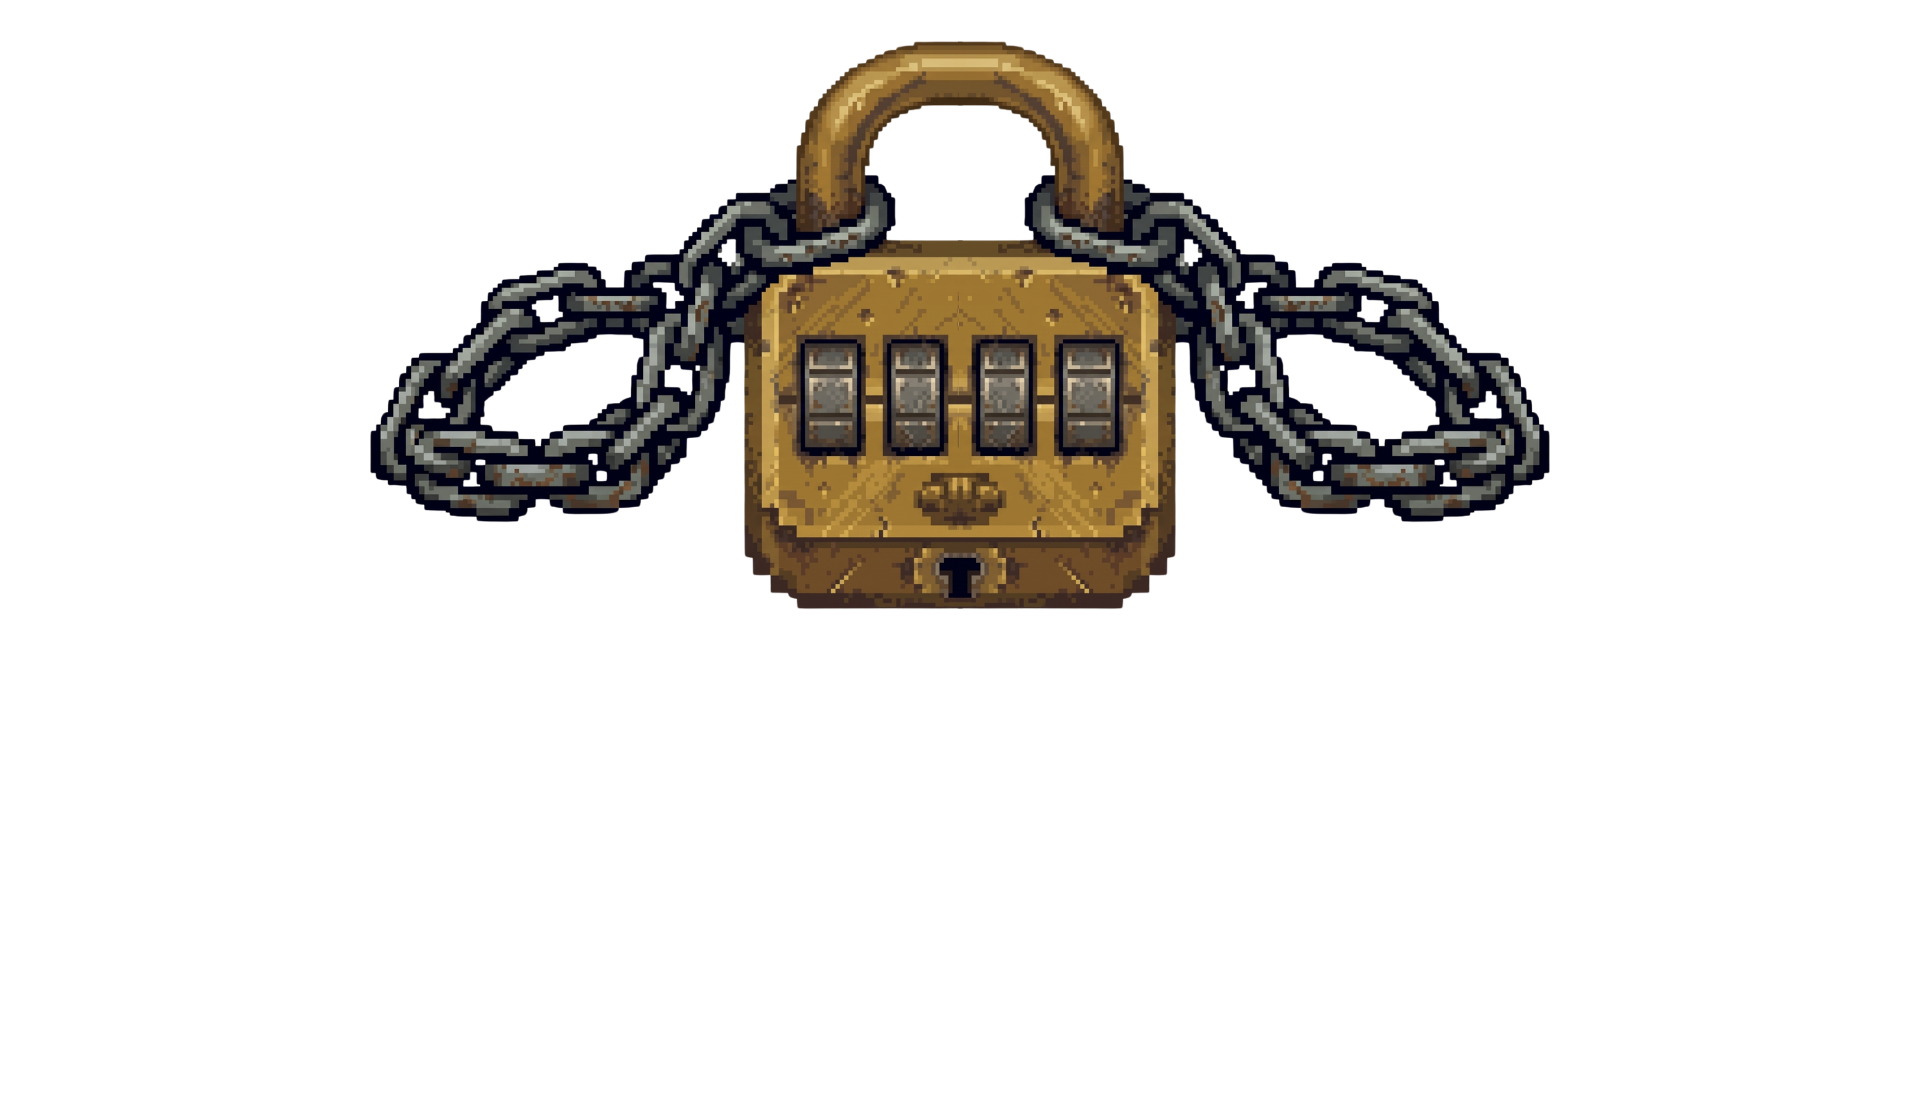
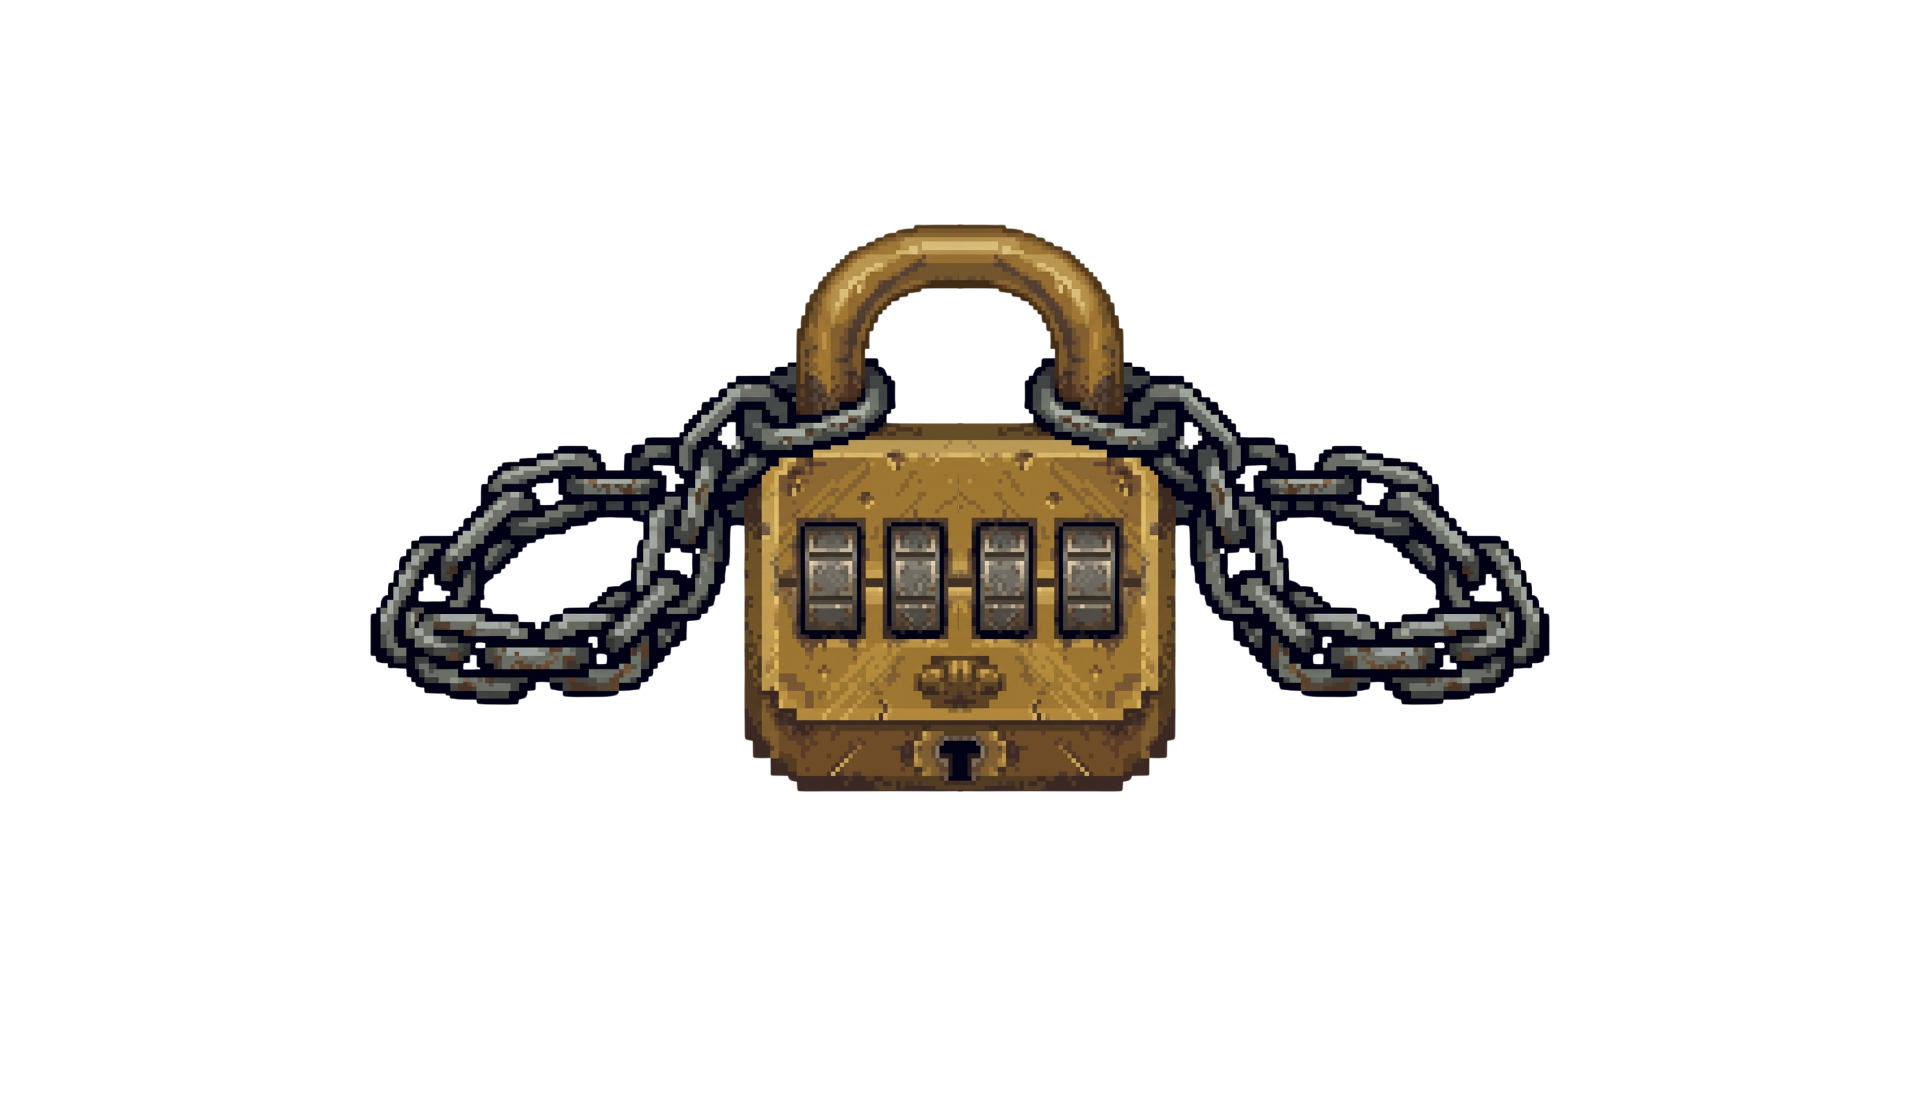
Cambio estetico para una mejor implementacion de las imagenes de los acertijos numericos

Changed region(s): [[0.1875, 0.0312, 0.8125, 0.7188]]

diff --git a/src/Vista/AcertijoPanel.java b/src/Vista/AcertijoPanel.java
@@ -18,7 +18,7 @@ public class AcertijoPanel extends JPanel {
 
     // -- ATRIBUTOS --
 
-    private double distanciaCasilla = 0.32; // proporción vertical del panel donde se dibujan las casillas
+    private double distanciaCasilla; // proporción vertical del panel donde se dibujan las casillas
     private Image imagenFondo;                    // imagen (centrada, sin deformarse)
     private final JPanel contenedorCasillas;      // agrupa las casillas de los dígitos
     private final List<JTextField> casillasDigitos; // una casilla por dígito de la respuesta
@@ -70,7 +70,7 @@ public class AcertijoPanel extends JPanel {
 
     // Arma la pantalla para un acertijo: pone el enunciado y crea una casilla por dígito.
     // Se recrean las casillas cada vez, así siempre están vacías al abrir el acertijo.
-    public void mostrarEnunciado(String descripcion, int cantidadDigitos, String rutaImagen) {
+    public void mostrarEnunciado(String descripcion, int cantidadDigitos, String rutaImagen, double distanciaCasilla) {
         
         imagenFondo = GestorSprites.cargarImagen(rutaImagen);
 
@@ -93,6 +93,8 @@ public class AcertijoPanel extends JPanel {
             // invokeLater: este método se llama antes de que la pantalla sea visible
             SwingUtilities.invokeLater(() -> casillasDigitos.get(0).requestFocusInWindow());
         }
+
+        this.distanciaCasilla = distanciaCasilla;
     }
 
     // Muestra un mensaje de error en rojo (por ejemplo "Incorrecto. Intentos restantes: 2")
@@ -119,7 +121,7 @@ public class AcertijoPanel extends JPanel {
     private JTextField crearCasilla(int indice) {
         JTextField campo = new JTextField("");
         campo.setFont(new Font("Monospaced", Font.BOLD, 28));
-        campo.setForeground(Color.WHITE);
+        campo.setForeground(Color.BLACK);
         campo.setHorizontalAlignment(JTextField.CENTER);
         campo.setPreferredSize(new Dimension(48, 52));
         campo.setOpaque(false);

diff --git a/src/Modelo/AcertijoNumerico.java b/src/Modelo/AcertijoNumerico.java
@@ -4,11 +4,23 @@ public class AcertijoNumerico extends Acertijo {
 
     private final int respuesta;
     private final String rutaImagen;
+    private double distanciaCasilla = 0.32; // proporción vertical del panel donde se dibujan las casillas
+
+    public AcertijoNumerico(int id, String descripcion, int columna, int fila, int respuesta, String rutaImagen, double distanciaCasilla) {
+        super(id, descripcion, columna, fila);
+        this.respuesta = respuesta;
+        this.rutaImagen = rutaImagen;
+        this.distanciaCasilla = distanciaCasilla;
+    }
 
     public AcertijoNumerico(int id, String descripcion, int columna, int fila, int respuesta, String rutaImagen) {
         super(id, descripcion, columna, fila);
         this.respuesta = respuesta;
         this.rutaImagen = rutaImagen;
+    }
+
+    public double getDistanciaCasilla() {
+        return distanciaCasilla;
     }
 
     public int getLargoRespuesta() {

diff --git a/src/Modelo/NivelFactory.java b/src/Modelo/NivelFactory.java
@@ -26,7 +26,7 @@ public class NivelFactory {
 
     private Nivel crearNivel1() {
         // 1. Se declara e instancia el acertijo
-        Acertijo candadoPlantaBaja = new AcertijoNumerico(1, "", 14, 8, 1234, "/Recursos/UI/Acertijos/Candado/Fondo/candado.png");
+        Acertijo candadoPlantaBaja = new AcertijoNumerico(1, "", 14, 8, 1234, "/Recursos/UI/Acertijos/Candado/Fondo/candado.png", 0.48);
        
         // 2. Se le pasa 'acertijo' al constructor de Nivel
         Nivel nivel = new Nivel(1, candadoPlantaBaja, "Recursos/Mapas/Grid/grid_planta_baja.txt", "/Recursos/Mapas/Imagen/mapa_planta_baja.png", 16, 14);

diff --git a/src/Controlador/ControladorAcertijo.java b/src/Controlador/ControladorAcertijo.java
@@ -90,7 +90,7 @@ public class ControladorAcertijo implements ObservadorAcertijo {
         this.acertijoActual = acertijo;
         this.personajeActual = personaje;
         vista.mostrarEnunciado(acertijo.getDescripcion(), acertijo.getLargoRespuesta(),
-                       acertijo.getRutaImagen());
+                       acertijo.getRutaImagen(), acertijo.getDistanciaCasilla());
         nivelPanel.mostrarAcertijo();
     }
 
